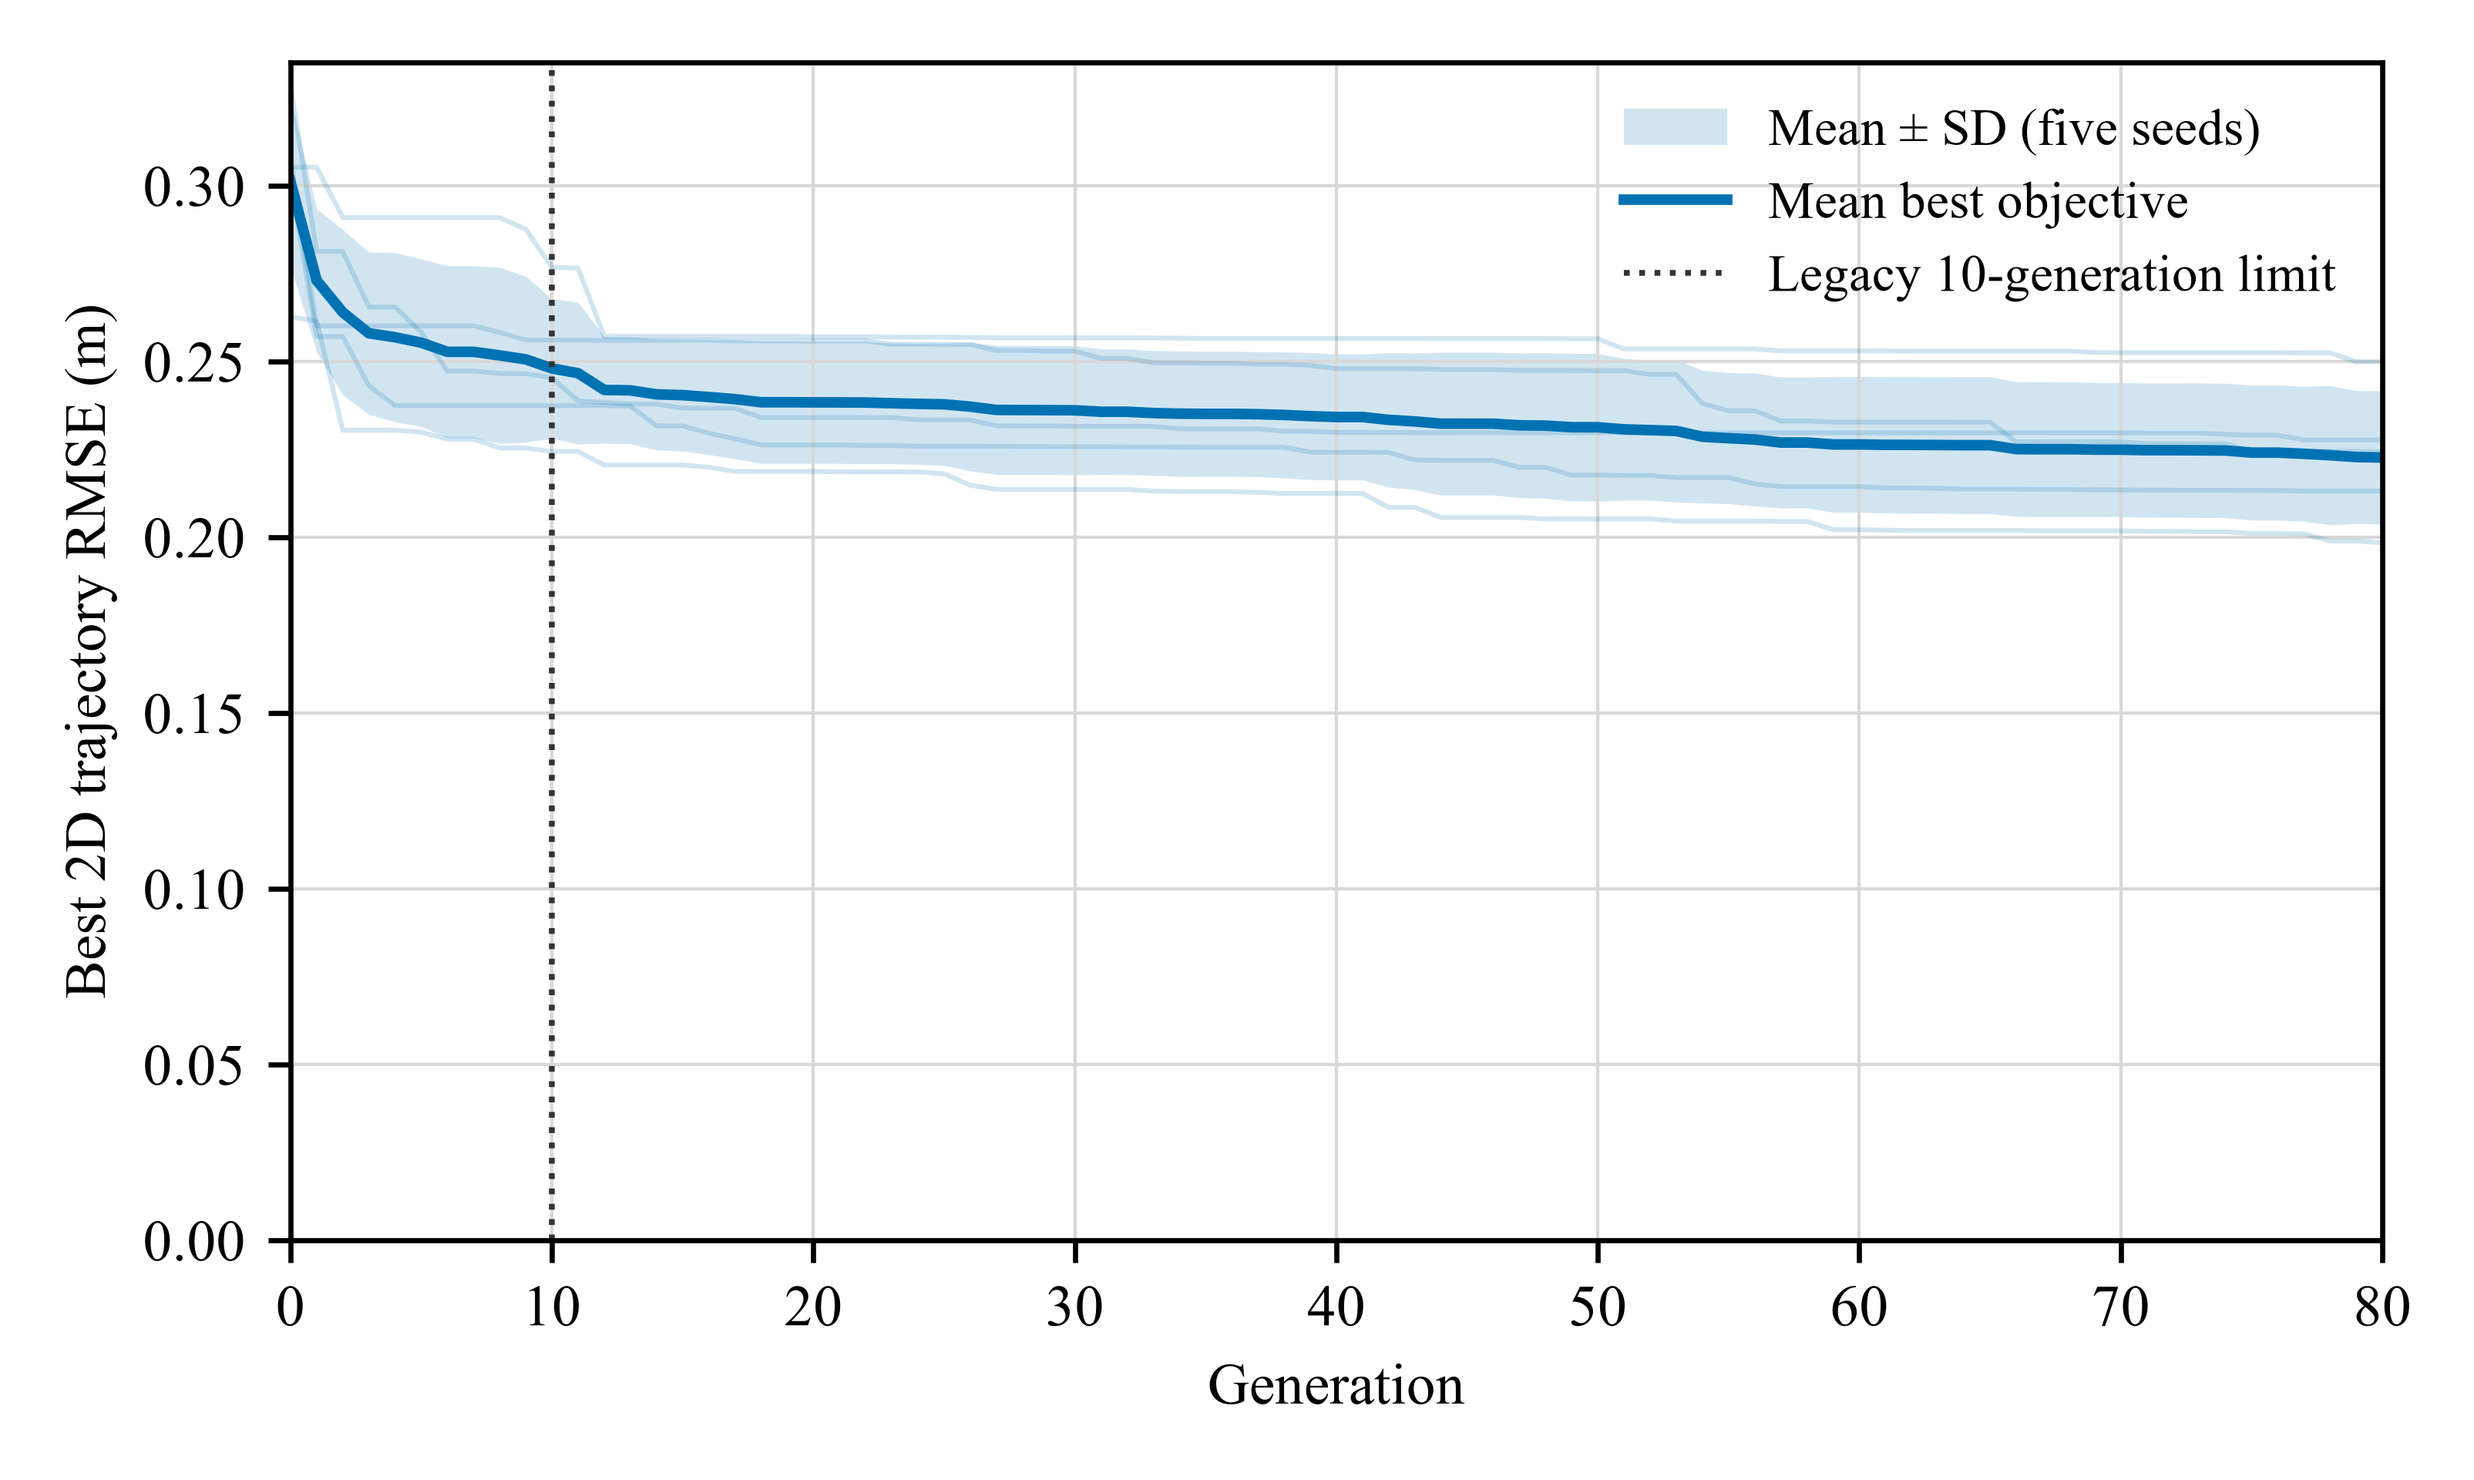
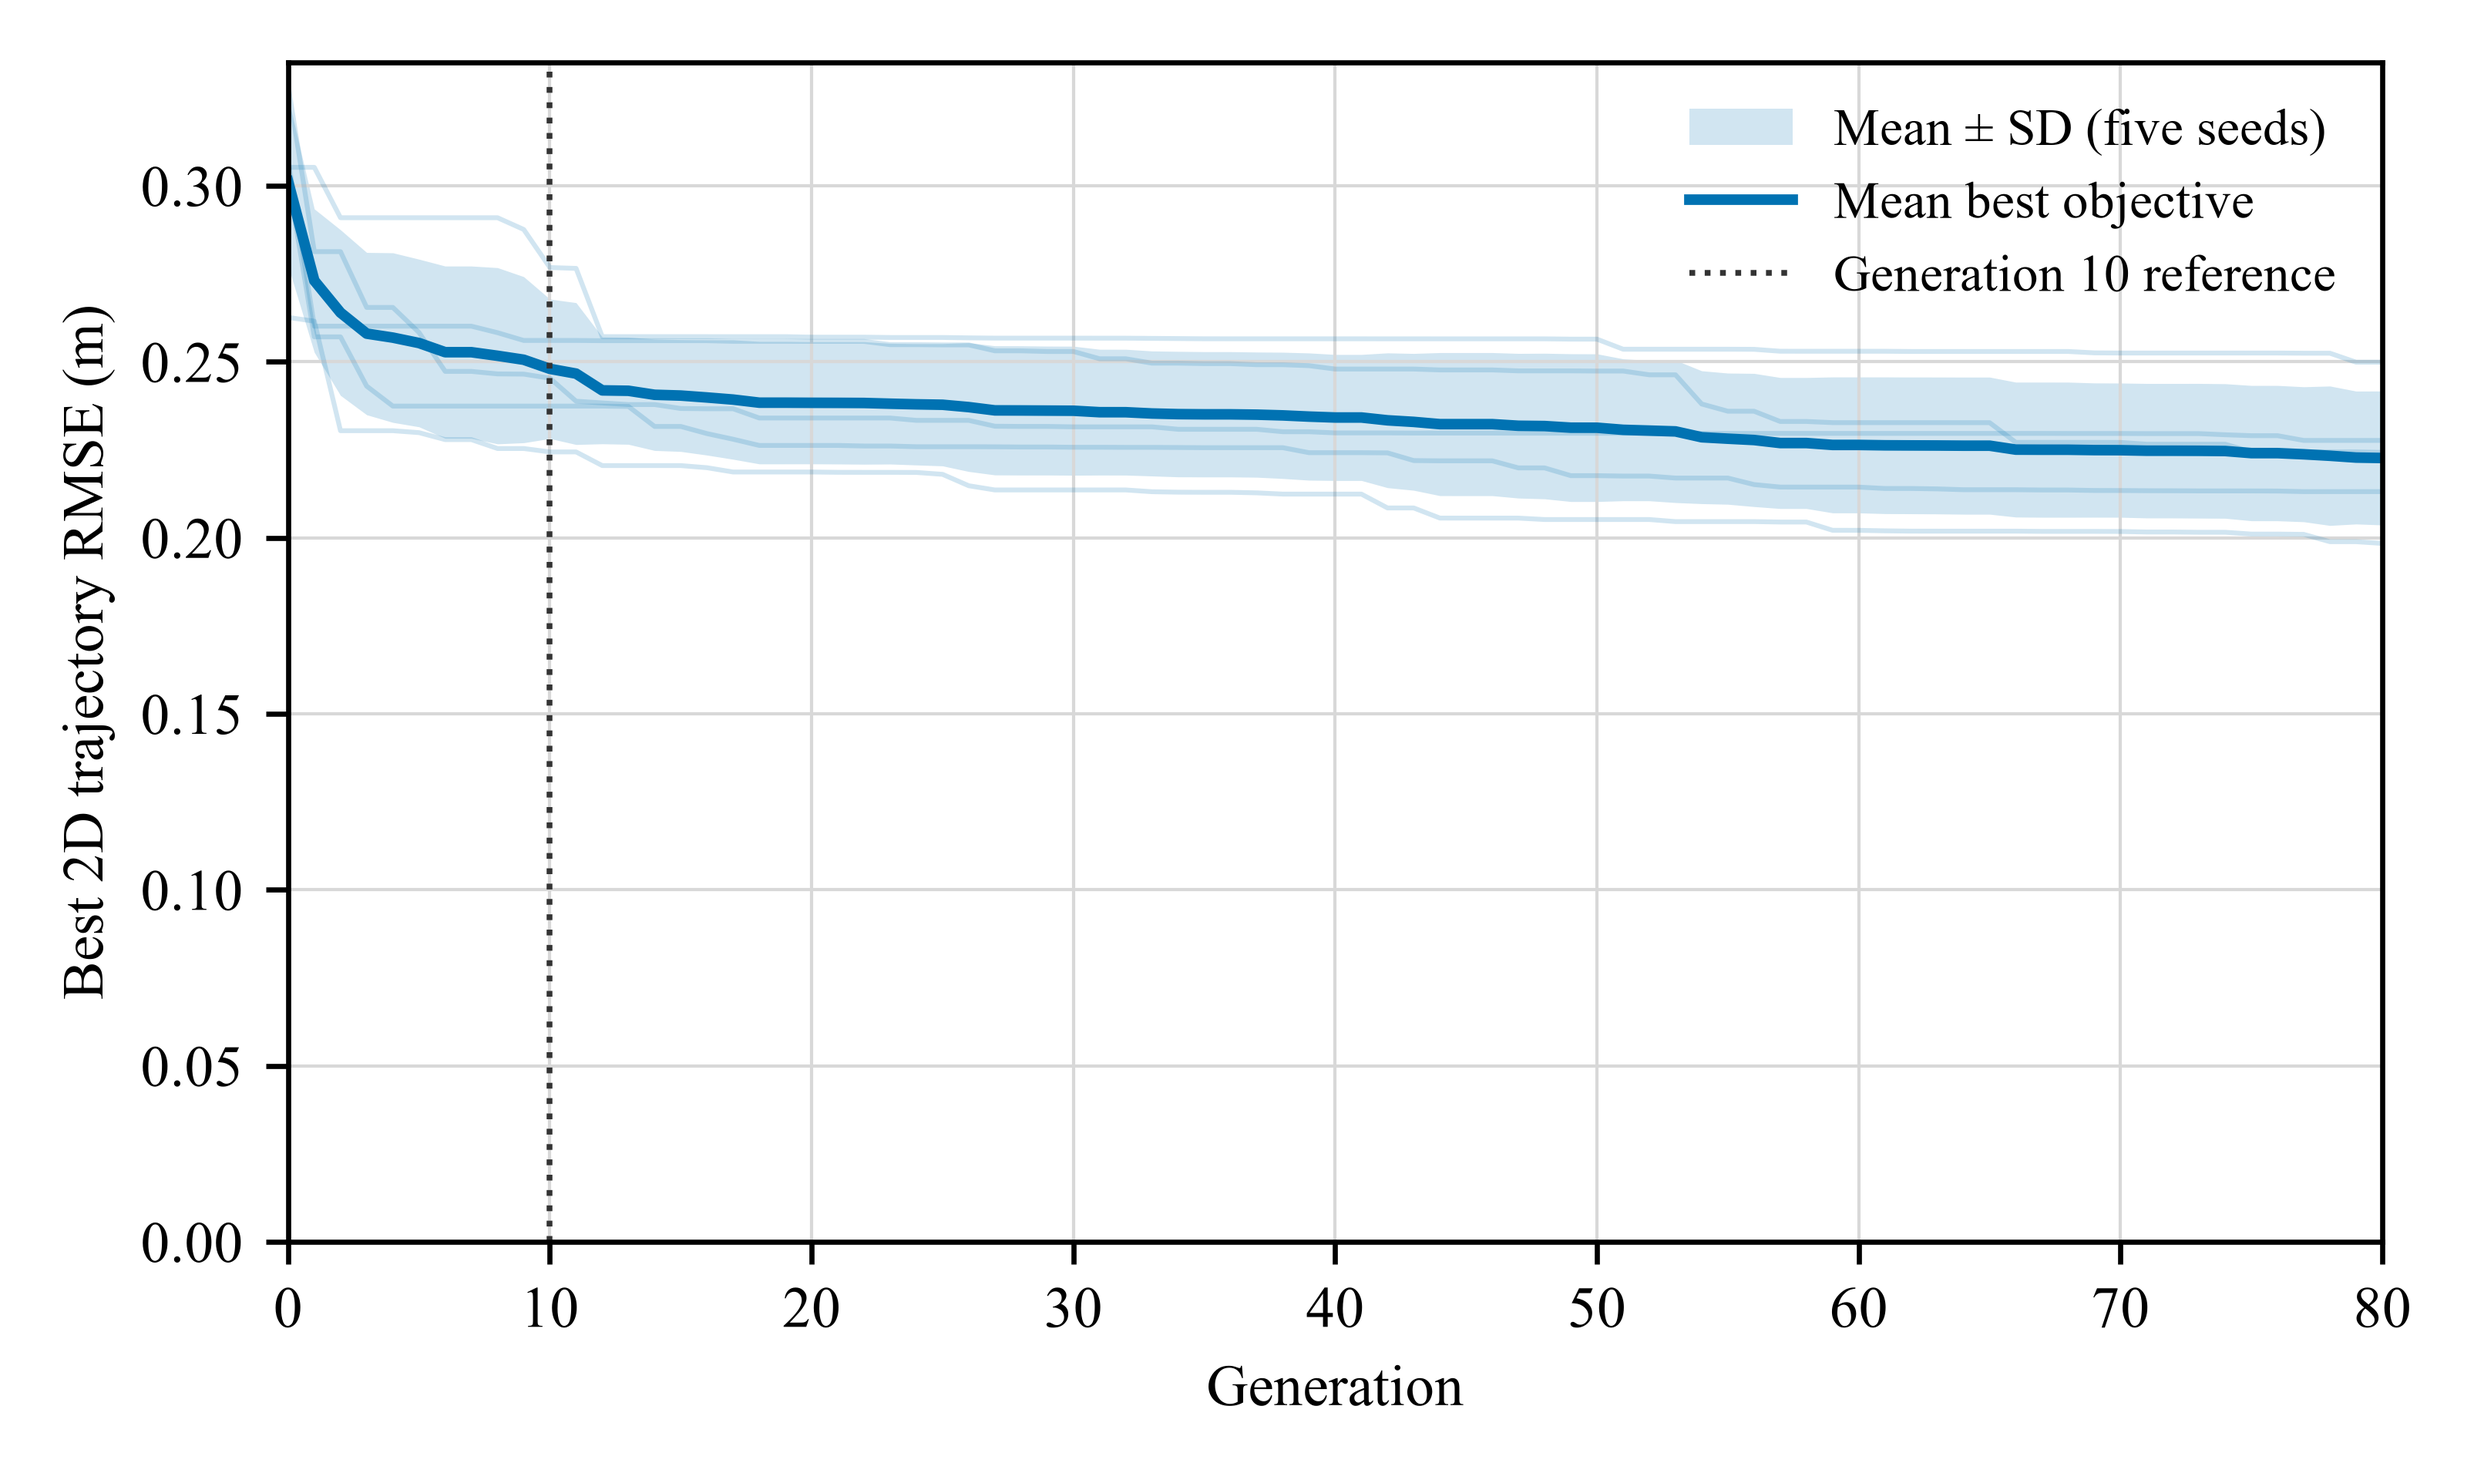
Add files via upload

diff --git a/scripts/plot_fair_convergence_figures.py b/scripts/plot_fair_convergence_figures.py
@@ -61,7 +61,7 @@ def plot_model(logs: pd.DataFrame, model: str, output_name: str) -> None:
         color="#333333",
         linewidth=0.9,
         linestyle=":",
-        label="Legacy 10-generation limit",
+        label="Generation 10 reference",
     )
     axis.set_xlabel("Generation")
     axis.set_ylabel("Best 2D trajectory RMSE (m)")
